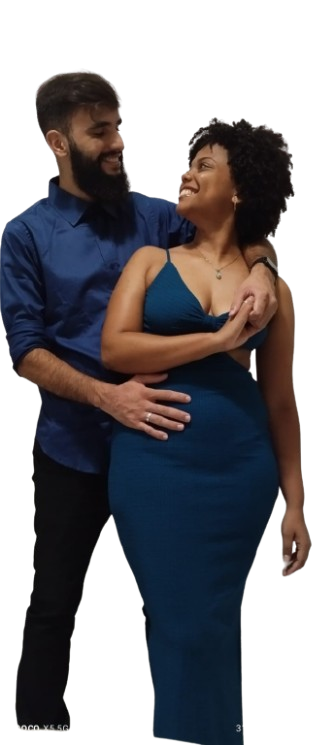
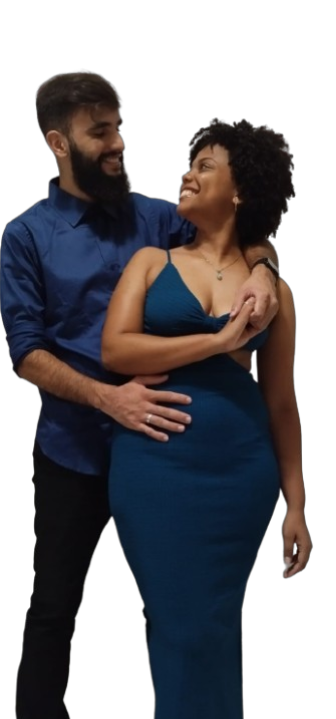
Novas fotos

diff --git a/css/index.css b/css/index.css
@@ -12,11 +12,10 @@
 body {
     background-color: var(--cor-de-fundo);
     color: var(--cor-de-fundo);
-    background: linear-gradient(to right,#000000,#000000);
+    background: linear-gradient(to bottom, rgba(0, 0, 0, 1), rgba(0, 0, 0, 0.926), rgb(40, 36, 32));
     font-family: var(--fonte-principal);
     font-size: 16px;
     font-weight: 400;
-
 }
 
 * {
@@ -24,13 +23,23 @@ body {
     padding: 0;
 }
 
+
 .principal {
     background: linear-gradient(to bottom, rgba(255, 255, 255, 0), rgba(255, 255, 255, 0), rgb(0, 0, 0)),
-    url('/img/novofundo.png');
-    background-size: cover; /* Faz a imagem cobrir o fundo */
+    url('/img/presentes.png');
+    background-size: cover;
     background-repeat: no-repeat;
-    text-align: center;
-    margin-bottom: 5em;
+    background-position: center;
+
+}
+
+.container__imagem {
+    position: absolute;
+    top: 56%;
+    left: 50%;
+    transform: translate(-50%, -50%);
+    width: 20%;
+
 }
 
 .container__botaoP {
@@ -53,14 +62,12 @@ body {
     border-radius: 5px;
     padding: 1em;
     color: var(--branco-principal);
-    display: flex;
-    justify-content: center;
+    display: grid;
+    justify-items: center;
     text-decoration: none;
     margin-top: 3em;
-    margin-left: 22em;
     transition: all 0.3s ease;
     width: 10em; /* Largura do botão */
-    height: 1em; /* Altura do botão */
     font-size: 20px;
     font-weight: 400;
 }
@@ -143,17 +150,13 @@ body {
     font-weight: 700;
 }
 
-.container__imagem {
-    object-fit: cover; /* Mantém a proporção da imagem */
-    transition: transform 0.3s ease, box-shadow 0.3s ease; /* Transição suave */
-    border-radius: 10px; /* Borda arredondada opcional */
-    width: 400px;
-    height: 800px;
-    
-}
+
 
 .container__caixa {
-    margin: 5em 20em 0 5em;
+    display: block;
+    grid-template-columns: auto;
+    justify-items: center;
+    margin: 10em 20em 30em 7em;
 }
 
 .container__secundario {

diff --git a/index.html b/index.html
@@ -11,15 +11,15 @@
     </head>
 
     <body>
+        
         <section class="container principal">
             <div class="container__caixa">
                 <h1 class="container__titulo">Com essa lista, você encontra presentes únicos para celebrar esse momento especial.</h1>
                 <img src="img/nossaFoto.png" alt="O combo+ é a junção do alura+ e o alura lingua" class="container__imagem">
+                    <a href="login.html" class="container__botaoLogin">Fazer Login!</a>
+                    <a href="cadastro.html" class="container__botaoLogin">Cadastrar - se</a>
             </div>
-            <div class="container_">
-            <a href="login.html" class="container__botaoLogin">Fazer Login!</a>
-            <a href="cadastro.html" class="container__botaoLogin">Cadastrar - se</a>
-            </div>
+            
         </section>
 
         <section class="container__secundario">
